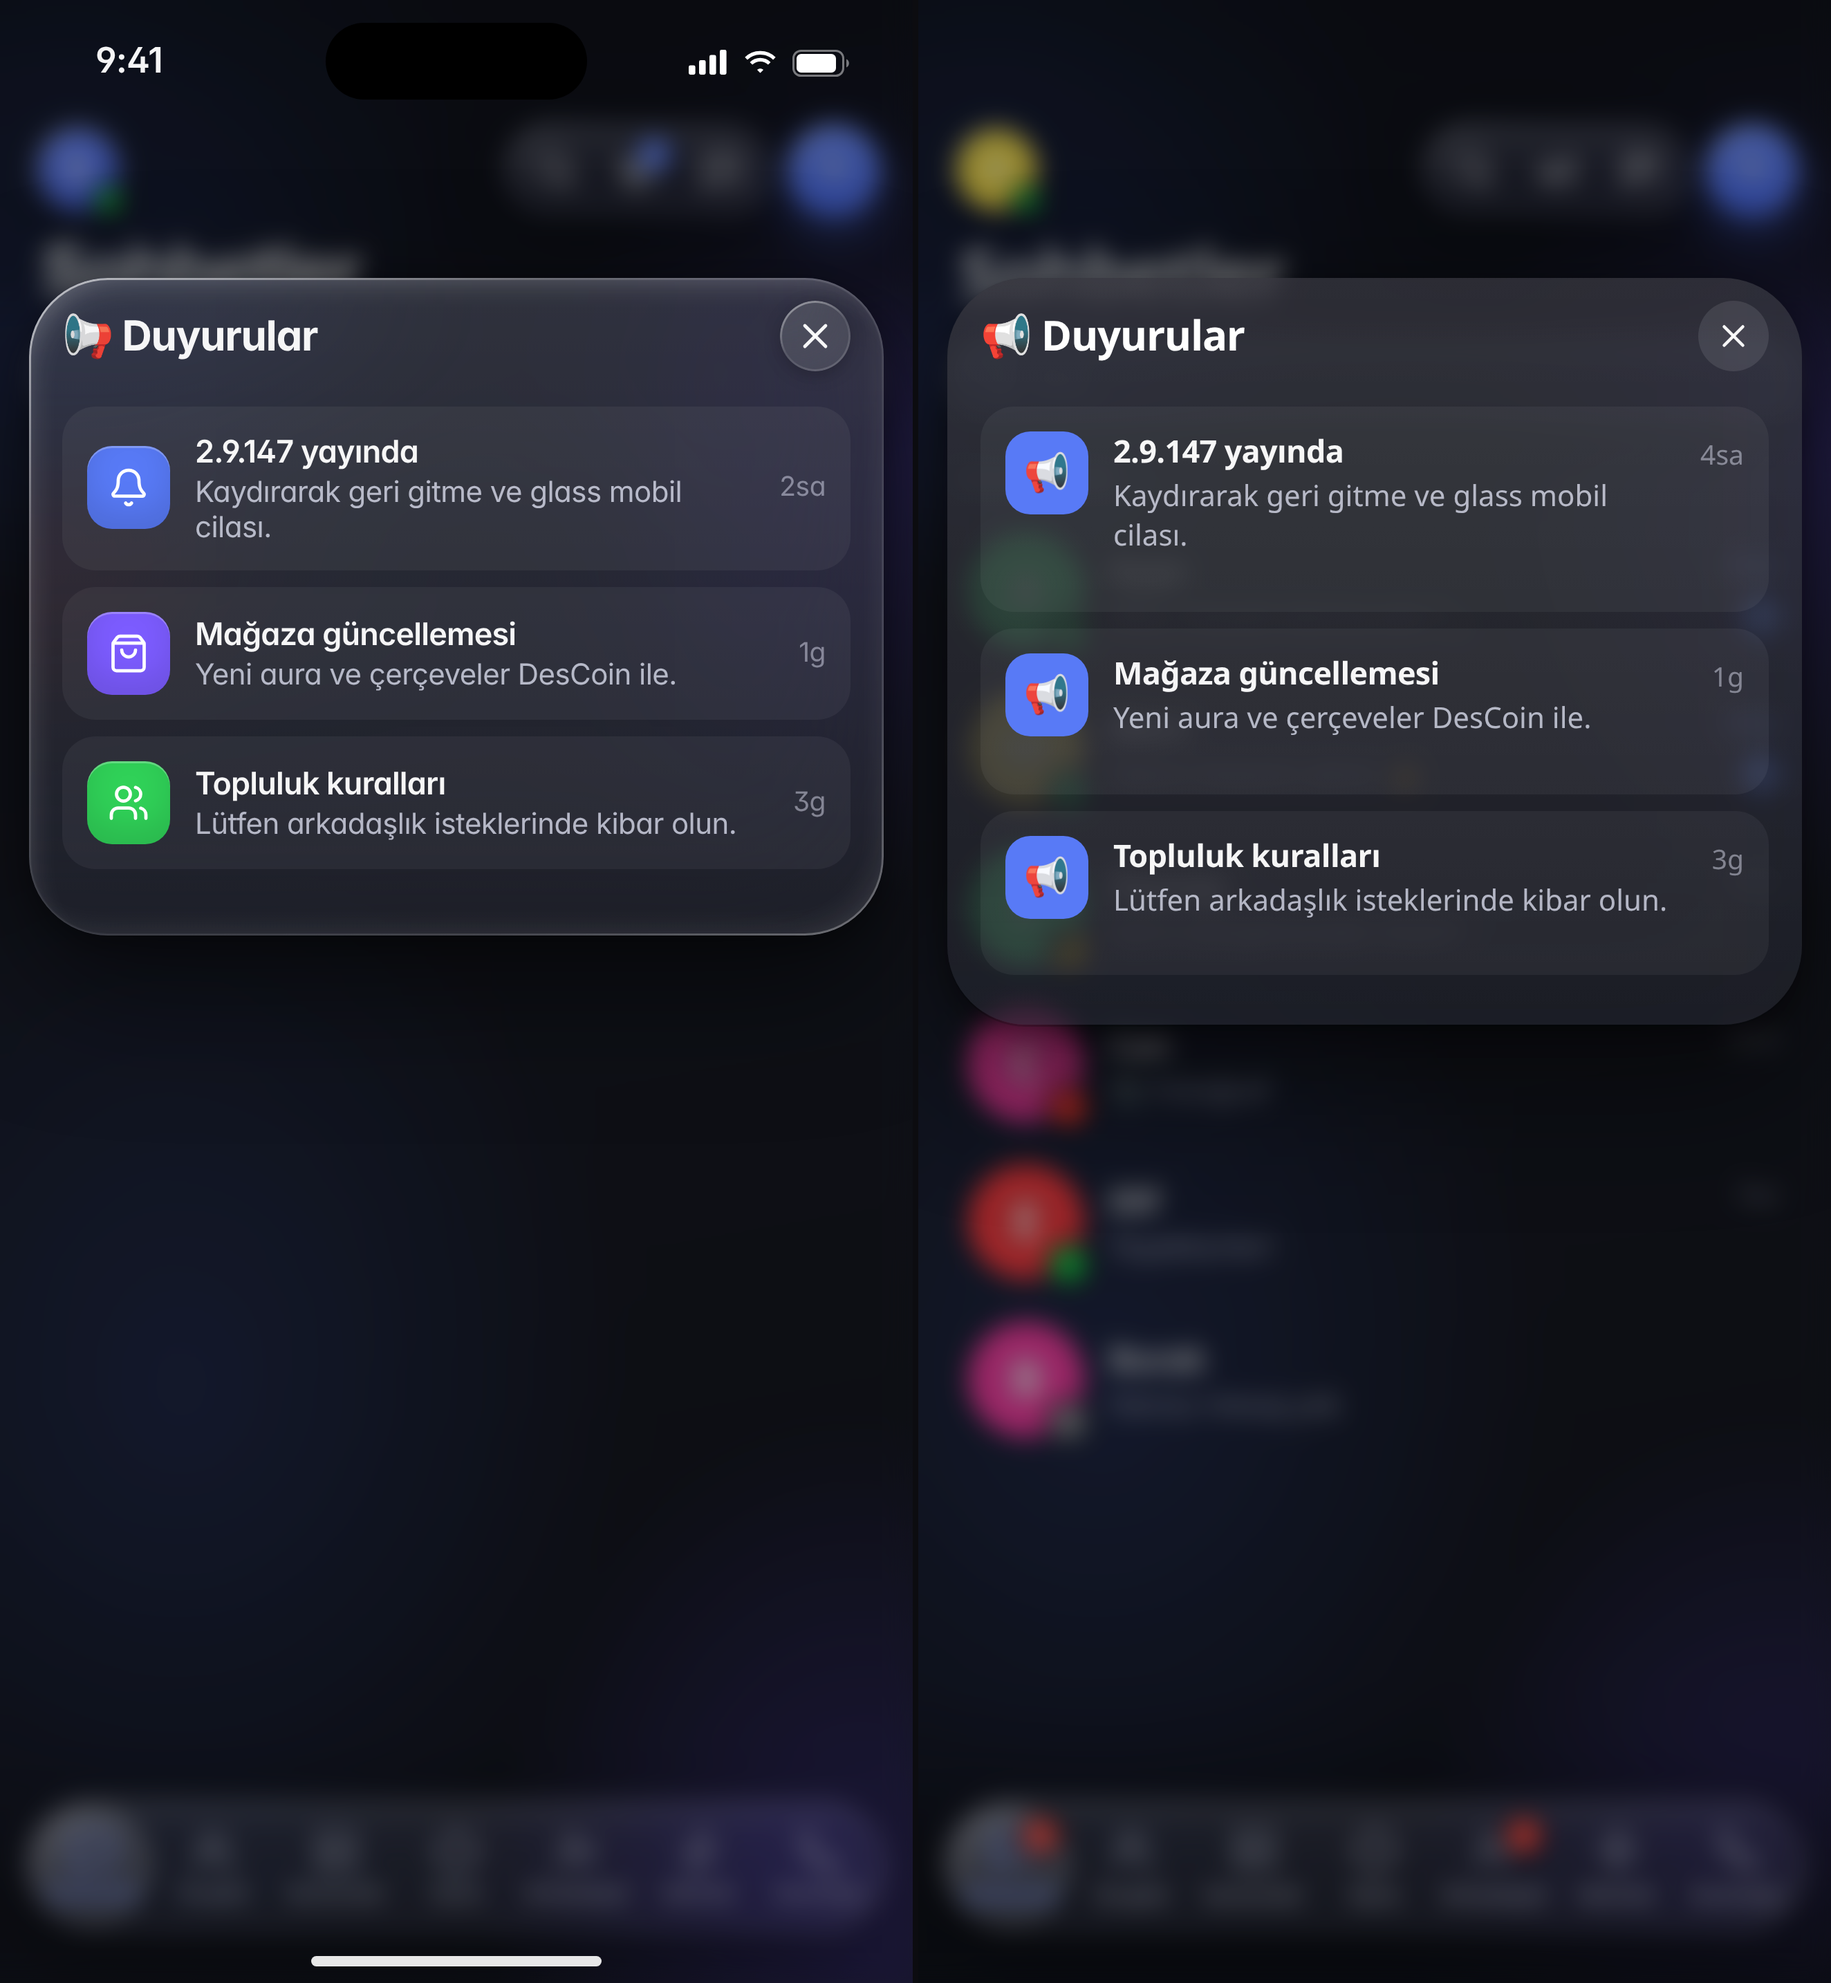
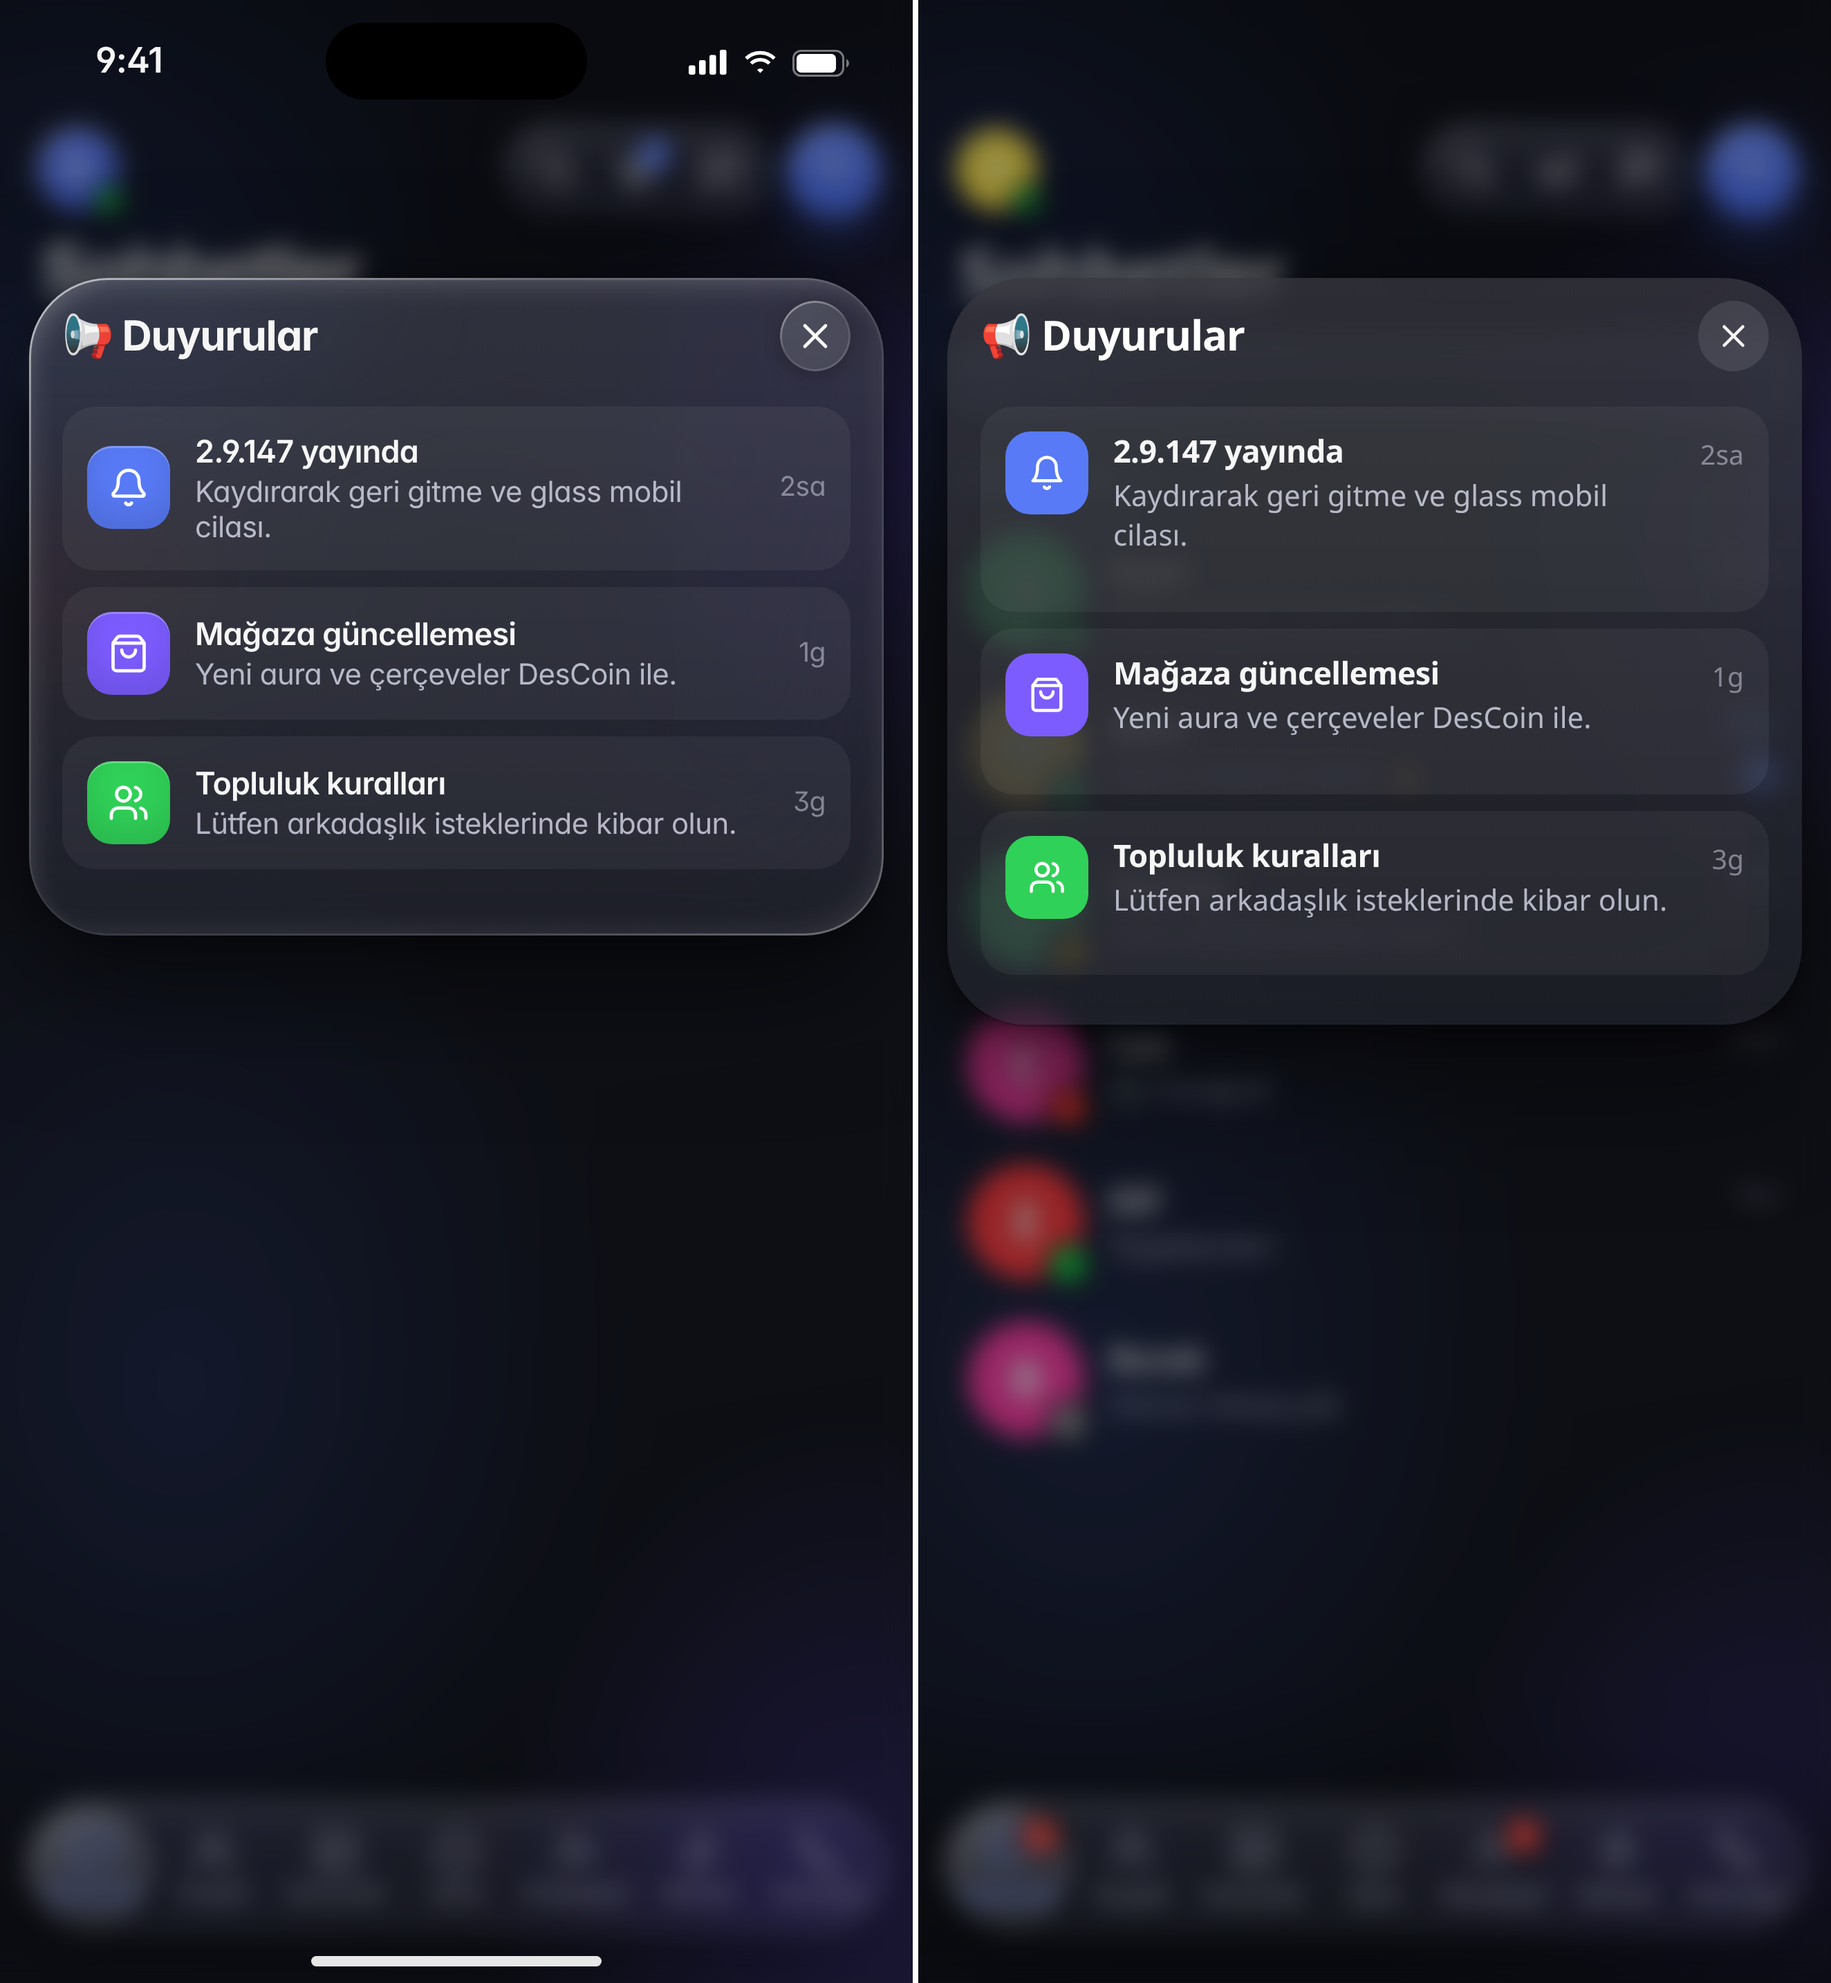
chore(release): bump to 2.9.171 and record glass carry-over
Stage 7 side-by-sides for the polish screens and the progress notes land with the version bump.

Changed region(s): [[0.5264, 0.4034, 0.6193, 0.4655], [0.5264, 0.3103, 0.6193, 0.3724], [0.5574, 0.2172, 0.5884, 0.2483]]

diff --git a/docs/glass-redesign/compare/stage7/REPORT.md b/docs/glass-redesign/compare/stage7/REPORT.md
@@ -2,7 +2,7 @@
 
 Tarih: 2026-10-09. Karşılaştırma Chrome’da, üst güvenli alan 62 / alt 34 maskelenerek. Mockup solda, uygulama sağda: `docs/glass-redesign/compare/stage7/*-side-by-side.png`.
 
-Bu tablo **2.9.170** yeniden çekimidir (3. tur denetim; etkilenen ekranlar yeniden çekildi, diğer satırlar 2.9.169 ölçüsü). Piksel eşiği (HANDOFF) maskelenmiş alanda ≤%0,5, bilinen veri ve yazı tipi farkları dışında. Yüzdeler o eşiğin üstünde kalır: Inter glif genişliği, fikstür metni, avatar rengi ve mağaza karosu. 3. tur: uzun basışın ilk kalkışı, mağaza cüzdan solması, davet başlığı, profil şeridi, sunucu menüsü, profil düzenleme grupları, bildirim dipnotu, arama ofseti, Oyna çipleri. Ayrıntı “3. tur” bölümünde.
+Bu tablo **2.9.171** cila turunun yeniden çekilen ekranlarını (02, 04, 09, 10, 11, 12, 16, 18) ve 2.9.170’te kalan satırları gösterir. Piksel eşiği (HANDOFF) maskelenmiş alanda ≤%0,5, bilinen veri ve yazı tipi farkları dışında. Yüzdeler o eşiğin üstünde kalır: Inter glif genişliği, fikstür metni, avatar rengi ve mağaza karosu. Cila: duyuru rozeti, smile-plus, davet altın satırı, ekle-arkadaş etiketleri, 30px ses satırı, kanal yer tutucusu, duyuru ikonları, durum yer tutucusu. Ayrıntı “Cila” bölümünde.
 
 Görsel denetim, App Store ekran görüntüleri ve “Bu sürümde yenilikler” Dimaru’da. Bu turda App Store’a gönderilmedi. `styles/mobile-glass.css` duruyor.
 
@@ -13,26 +13,26 @@ Maskelenmiş piksel farkı (eşik 0.15, `includeAA`). 21b, kaydırılmış mağa
 | Ekran | Fark | Karar |
 | --- | --- | --- |
 | 01-login | %12.65 | Google düğmesi iOS’ta yok (bilinçli). |
-| 02-chats | %10.73 | Harf 23.52px / 56px avatar (0.42em). |
+| 02-chats | %10.69 | Megafon rozeti 2 (okunmamış sayaç). |
 | 02b-groups | %9.30 | Grup listesi, üye yığını kare çerçevesiz. |
 | 03-dm | %9.70 | Üst solma `.g-edge-conv` 150px, maske %72 opak. |
-| 04-msg-menu | %13.63 | 1600ms basılı tutup bırakınca menü açık kalıyor. Yeni bir basış Düzenle’yi çalıştırır. |
+| 04-msg-menu | %13.62 | “Daha fazla tepki” smile-plus. Menü ilk kalkışta açık kalıyor. |
 | 05-attach | %3.76 | `+` z-index 85, scrim 70. Düğme scrim’in üstünde (elementFromPoint path). |
 | 06-call-11 | %6.93 | Saç teli konuşma halkası (dolgu yok). Kalite çubukları mavi tonda. |
 | 07-group-call | %20.19 | Grup ızgarasında avatar halkası gizli; karo kenarı yeşil. Karo gradyanları ayrı. |
 | 08-incoming | %7.67 | Hap y 148. Avatar kutu gölgesi 3px beyaz halka. |
-| 09-friends | %9.59 | Satır 76, avatar 52. |
-| 10-add-friend | %8.70 | Hızlı Ekle / Arkadaş / Grup. |
-| 11-servers | %8.26 | Ray + kanal bölmesi. Başlık eylemleri 30px daire. |
-| 12-server-channel | %7.84 | Kanal sohbeti, üst solma duruyor. |
+| 09-friends | %9.56 | Davet: “Arkadaş davet et” / “Descall'a katıl — ikimiz de DesCoin kazanırız” / “Sen 100 · onlar 50 DesCoin”. |
+| 10-add-friend | %9.25 | Hızlı Ekle / Arkadaş / Grup. Alan ikonu ve “Kullanıcı adıyla arkadaşlık isteği gönder”. |
+| 11-servers | %4.49 | Ses üye satırı 30px. Kanal “···” gizli. |
+| 12-server-channel | %7.70 | Yer tutucu `#genel'e mesaj yaz…`. |
 | 13-server-menu | %7.10 | Düz bildirim satırları, mavi çek sağda. Sahip satırı “Sunucuyu sil”. Alt yazı “· 4 sesli”. |
 | 14-profile | %8.19 | Bannersız hesapta marka şeridi. Durum 22×22, 3px halka. Üyelik Tarihi 10 Oca 2026. |
 | 14b-profile-edit | %10.89 | Gruplar: Kimlik, Hakkımda, Banner, Özel durum. “Banner'ı değiştir”, “Avatarı değiştir”, salt okunur kullanıcı adı. |
 | 15-settings | %6.97 | Ayarlar açıkken sekme vurgusu yok (`.g-tab.on` boş). Profil kartı %4.5 beyaz + blur. |
 | 15b-settings-notifications | %7.93 | Dipnot kartın altında, sol boşluk 16px. Satır ikonları gizli. |
-| 16-notifications | %6.20 | Duyurular sayfası. |
+| 16-notifications | %6.13 | Satır ikonları kayıtlı emoji/renk: zil, çanta, kişiler. |
 | 17-play | %15.80 | Başlık zemini saydam, alt solma. Çipler tek satır 32px. Kart blur. Competitive mavi, Unrated yeşil, Swiftplay amber. |
-| 18-status | %3.41 | Dört durum + özel + Kullanıcı Ayarları. |
+| 18-status | %3.47 | “Aklınızdan neler geçiyor?” kırpılmıyor (scrollWidth = clientWidth). |
 | 19-calls | %11.34 | İçerik üstü `chrome + 142px`. Görüntülü satırda video ikonu. Grup satırında yalnız telefon. |
 | 20-activity | %18.45 | Durum kartı harfi 21.84px beyaz, durum noktası 14px. Avatar 52. |
 | 21-shop | %27.91 | Cüzdan saydam, altı blur solma. Davet: “Arkadaş davet et” + “Sen 100 DesCoin · onlar 50 kazanır”. Hedefler Mesajlar / Ekran. |
@@ -185,11 +185,30 @@ Arkadaş listesinde uzun ad, `flex-wrap: wrap` yüzünden yönetici rozetini iki
 - “· N sesli” yalnız o an ses kanalında biri varken. Çekimde 4 kişi olduğu için yazıldı.
 - Özel durum satırı, kullanıcıda özel durum yokken çizilmez. Fikstürde yok; “Ranked arıyorum” uydurulmadı.
 - Premier etiket rengi listede yok; gri kaldı.
-- Taşınan düşük notlar bu tura girmedi: duyuru rozeti, smile-plus, davet metni, ekle-arkadaş segment etiketleri, ses üye satırı yüksekliği, kanal “···”, “Mesaj…” yer tutucusu, duyuru listesinde aynı ikon, durum yer tutucusunun kırpılması. Bunlar ya uygulamada olmayan bir özelliği ya da mevcut metni değiştirir.
+- Taşınan düşük notlar 2.9.171 cila turunda işlendi. Aşağıya bakın.
+
+## Cila (2.9.171)
+
+440×956 @3x, güvenli alan 62/34 maskeli, `html.glass-ui`, Vite 5174 kaynak + shotkit 3300. Yeni eylem yok.
+
+| Konu | Ölçü |
+| --- | --- |
+| 02 rozet | `.g-nb` metni “2”. `aria-label` “Duyurular 2”. Sayaç `GET /api/announcements/unread/count`. Sayfa açılınca mevcut okundu ucu çağrılır, rozet sıfırlanır. |
+| 04 ikon | “Daha fazla tepki” satırı SmilePlus (`M22 11v1a10…`). Besteci gülümsemesi duruyor. |
+| 09 davet | “Arkadaş davet et Descall'a katıl — ikimiz de DesCoin kazanırız Sen 100 · onlar 50 DesCoin”. Mağaza kartı “Sen 100 DesCoin · onlar 50 kazanır”. |
+| 10 ekle | Sekmeler “Hızlı Ekle / Arkadaş / Grup”. `.g-add-field` kullanıcı ikonu. Dipnot “Kullanıcı adıyla arkadaşlık isteği gönder”. |
+| 11 sunucu | `.server-voice-user` yükseklik 30. Satır sayısı 4. Kanal “···” ve ses satırı “···” `display: none`. Menü eylemleri duruyor. |
+| 12 yer tutucu | `#genel'e mesaj yaz…`. DM yer tutucusu `Mesaj…`. |
+| 16 ikonlar | Üç `.g-ann-mark` svg. Zemin `rgb(88,122,246)`, `rgb(124,92,255)`, `rgb(48,209,88)`. Kaynak `emoji` + `color`. |
+| 18 durum | Yer tutucu “Aklınızdan neler geçiyor?”. `scrollWidth` 188 = `clientWidth` 188. `clipped` false. |
+
+`glass-scope.selftest` 1121 seçici. `glassMessageMenu.selftest`, `edgeSwipeBack.selftest`, `navInventory.selftest` geçti.
+
+Stage 7 mühendisliği bu sürümle kapanır. Kalan fark, Demir’in cihaz testinde çıkarsa ayrıca ele alınır.
 
 ## TestFlight kontrol listesi (Demir)
 
-Sürüm **2.9.170**. Yalnız iPhone. App Store’a gönderme.
+Sürüm **2.9.171**. Yalnız iPhone. App Store’a gönderme.
 
 - [ ] Sohbetler, Gruplar, Sunucular, Oyna, Arkadaşlar, Aktivite, Aramalar sekmesi duruyor. Oyna’da da sekme duruyor; liste çekmecesi yok.
 - [ ] Uzun bir ad + yönetici rozeti: sohbet başlığında tek satır, rozet görünür (dar telefonda yalnız kalkan). Arkadaş satırında ad kesilir, “Yönetici” alt satıra kaymaz.
@@ -205,3 +224,8 @@ Sürüm **2.9.170**. Yalnız iPhone. App Store’a gönderme.
 - [ ] Grup aramasında fotoğraflı avatar, yeşil konuşma halkasının tam ortasında.
 - [ ] Mesaja uzun basıp parmağı kaldırınca Düzenle / Şikayet kendiliğinden açılmaz.
 - [ ] Oyna: cam başlık, çip filtreler, lobi kartında Katıl. Mağazada “Bannerlar · N” sayacı listenin üstünde kalır.
+- [ ] Sohbetler megafonunda okunmamış duyuru sayısı (yoksa rozet yok). Duyuru satırlarında kayıtlı emoji/renk.
+- [ ] Mesaj menüsünde “Daha fazla tepki” smile-plus. Arkadaş davetinde “Sen 100 · onlar 50 DesCoin”.
+- [ ] Ekle: Hızlı Ekle / Arkadaş / Grup, kullanıcı ikonu, “Kullanıcı adıyla arkadaşlık isteği gönder”.
+- [ ] Ses kanalındaki üye satırı sıkı (~30pt). Kanal satırında “···” yok. `#genel` yer tutucusu `#genel'e mesaj yaz…`.
+- [ ] Durum menüsünde “Aklınızdan neler geçiyor?” kesilmeden görünür.

diff --git a/docs/glass-redesign/PROGRESS.md b/docs/glass-redesign/PROGRESS.md
@@ -1,5 +1,9 @@
 # Liquid Glass — progress log
 
+## Carry-over polish · 2.9.171
+
+Stage 7’nin kalan cila turu. Yeni özellik yok. Duyuru rozeti, var olan okunmamış sayacından (`GET /api/announcements/unread/count`); sayaç yoksa rozet çizilmez. Duyuru satırı ikonu kayıtlı `emoji` + `color` alanından; bilinen glif Lucide, diğerleri glif olarak kalır. Mesaj menüsünde “Daha fazla tepki” smile-plus. Arkadaş davetinde altın satır “Sen 100 · onlar 50 DesCoin” (mağaza metni duruyor). Ekle sayfasında Hızlı Ekle / Arkadaş / Grup, kullanıcı alanı ikonu ve “Kullanıcı adıyla arkadaşlık isteği gönder”. Ses üye satırı 30px; kanal “···” camda gizli, menü eylemleri duruyor. Kanal yer tutucusu `#genel'e mesaj yaz…`. Özel durum yer tutucusu kırpılmıyor. Bu turdan sonra Stage 7 mühendisliği, Demir’in cihaz testinde sorun çıkmazsa kapalıdır. App Store’a gönderilmedi. `mobile-glass.css` duruyor. Ölçüler: `docs/glass-redesign/compare/stage7/REPORT.md`.
+
 ## Round 3 audit fixes · 2.9.170
 
 Dimaru’nun 2.9.169 turu. Uzun basışta menü, parmak ne kadar tutulursa tutulsun ilk kalkışta satırı çalıştırmaz; yeni basış çalıştırır. Mağaza cüzdanı başlığın altında yumuşak blur. Davet kartında başlık satırı; günlük ve eşya kartları cam. Başkasının profilinde bannersız şerit, 22pt durum noktası, üyelik tarihi. Sunucu menüsü düz bildirim satırları ve ayrı kırmızı sahip/ayrıl satırı. Profil düzenleme grupları, bildirim dipnotu kartın altında, arama listesi 16pt yukarı, Oyna çipleri tek satır ve mod renkleri. App Store’a gönderilmedi. `mobile-glass.css` duruyor. Ölçüler: `docs/glass-redesign/compare/stage7/REPORT.md`.
